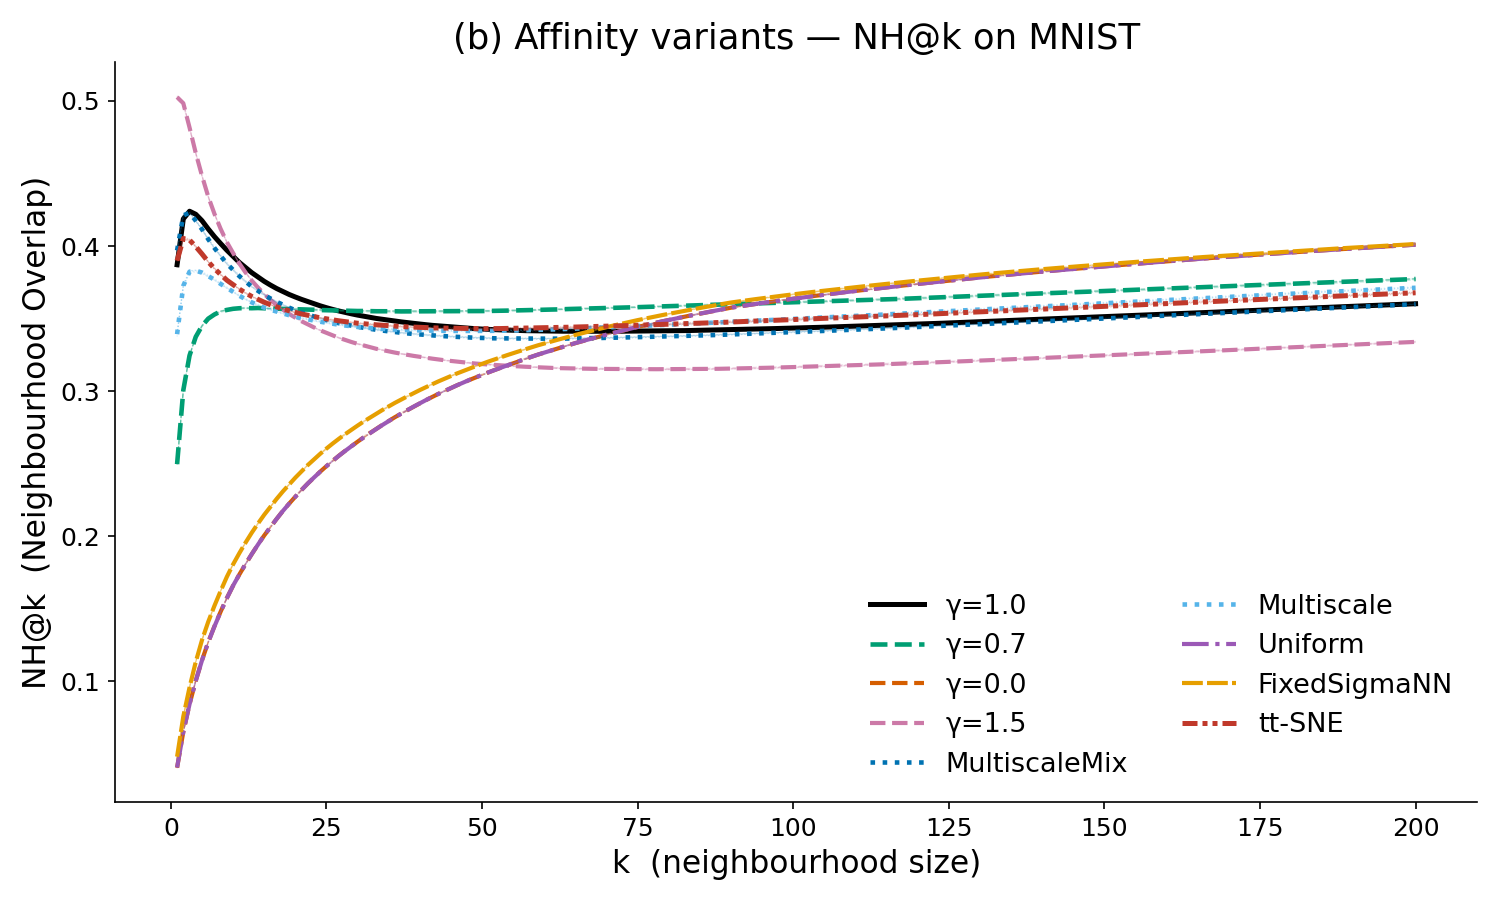
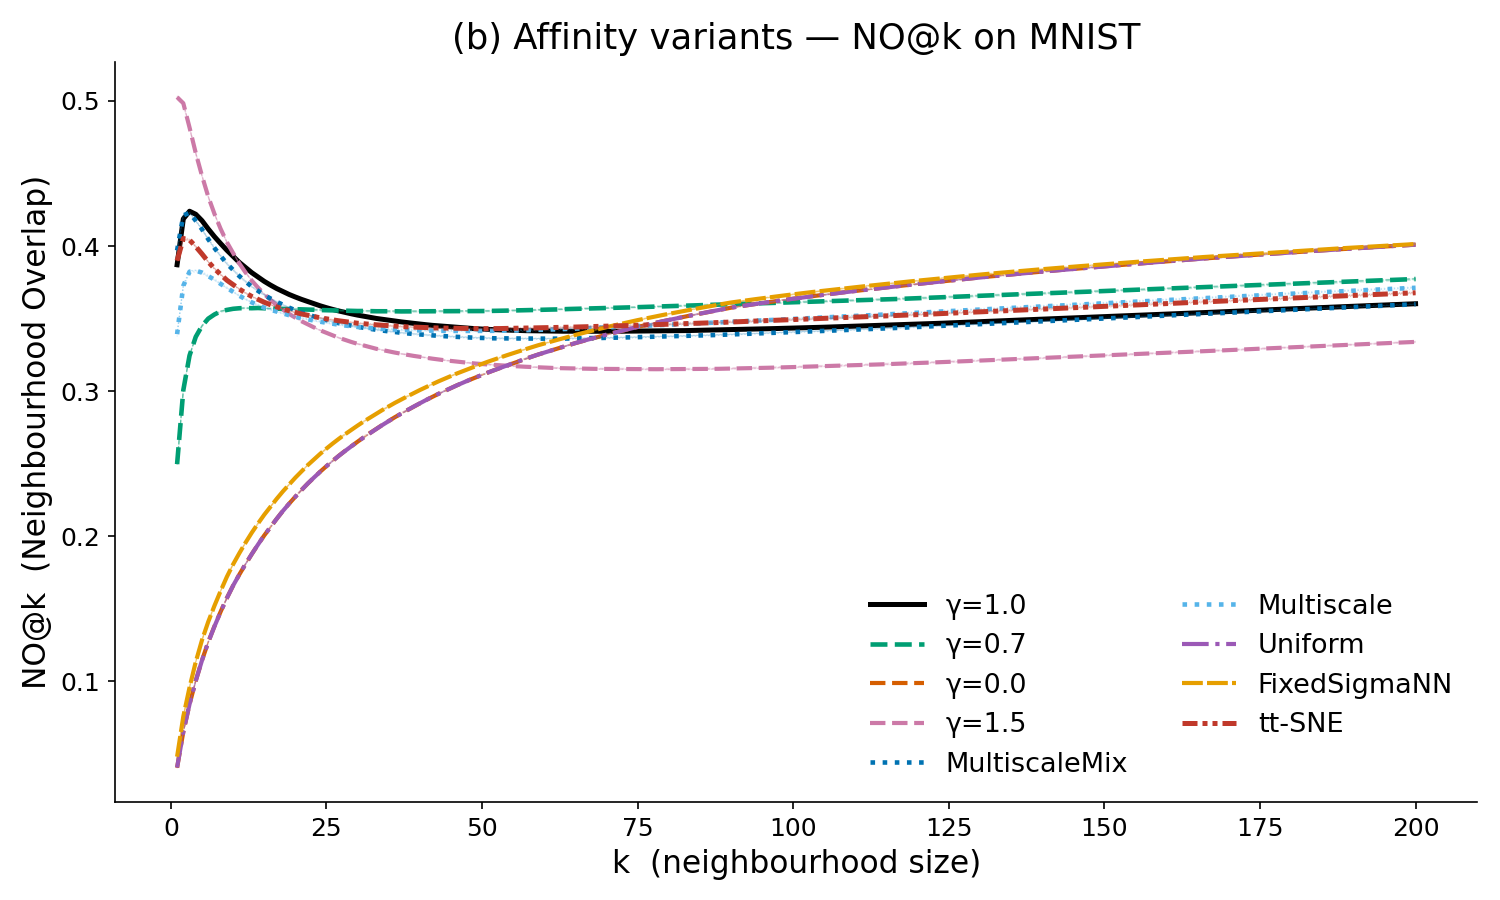
change NH to NO in affinity comparison experiment

diff --git a/experiments/compare_affinity_variants.py b/experiments/compare_affinity_variants.py
@@ -2,9 +2,9 @@
 compare_affinity_variants.py
 
 Compare 8 affinity configurations for t-SNE using
-Neighborhood Overlap @ k (NH@k) as the quality metric.
+Neighborhood Overlap @ k (NO@k) as the quality metric.
 
-NH@k measures how well the local HD structure is preserved in the embedding:
+NO@k measures how well the local HD structure is preserved in the embedding:
 for each point, it counts the fraction of its k HD neighbors that also appear
 among its k LD neighbors, then averages over all points.
 
@@ -291,11 +291,11 @@ def knn_indices(X, k, n_jobs=-1):
 
 def nh_curve(hd_nbrs, ld_nbrs, k_max):
     """
-    Compute NH@k for every k from 1 to k_max given pre-built index arrays.
+    Compute NO@k for every k from 1 to k_max given pre-built index arrays.
 
     Uses the same set-intersection approach as exp4 in the main script.
     hd_nbrs, ld_nbrs : (n, k_max) int arrays
-    Returns           : (k_max,) float array, result[k-1] = mean NH@k
+    Returns           : (k_max,) float array, result[k-1] = mean NO@k
     """
     n = len(hd_nbrs)
     return np.array([
@@ -345,9 +345,9 @@ def plot_nh_curves(df, out_dir, k_max=None, dataset="mnist"):
         ax.plot(k_vals, mn.values, color=color, lw=lw, ls=ls, label=method)
 
     ax.set_xlabel("k  (neighbourhood size)")
-    ax.set_ylabel("NH@k  (Neighbourhood Overlap)")
+    ax.set_ylabel("NO@k  (Neighbourhood Overlap)")
     _prefix = "(b) " if dataset == "mnist" else ""
-    ax.set_title(f"{_prefix}Affinity variants — NH@k on {dataset.upper()}")
+    ax.set_title(f"{_prefix}Affinity variants — NO@k on {dataset.upper()}")
     ax.legend(frameon=False, ncol=2, loc="lower right")
     ax.spines["top"].set_visible(False)
     ax.spines["right"].set_visible(False)
@@ -365,7 +365,7 @@ def plot_nh_curves(df, out_dir, k_max=None, dataset="mnist"):
 
 def parse_args():
     p = argparse.ArgumentParser(
-        description="Compare affinity variants via NH@k",
+        description="Compare affinity variants via NO@k",
         formatter_class=argparse.ArgumentDefaultsHelpFormatter,
     )
     # Dataset
@@ -396,7 +396,7 @@ def parse_args():
                    help="Degrees of freedom (intrinsic dim M') for the tt-SNE "
                         "Student-t HD kernel. 'auto' estimates it from the data.")
     p.add_argument("--k_max",            type=int,   default=200,
-                   help="Compute NH@k for k = 1 … k_max")
+                   help="Compute NO@k for k = 1 … k_max")
     p.add_argument("--n_runs",           type=int,   default=1,
                    help="Number of random seeds")
     p.add_argument("--random_state",     type=int,   default=42)
@@ -428,7 +428,7 @@ def main():
     # ── Load data ─────────────────────────────────────────────────────────────
     X_pca, y = load_dataset(args)
     print(f"  X_pca: {X_pca.shape}")
-    X_eval = X_pca   # evaluate NH@k in PCA space (the actual t-SNE input)
+    X_eval = X_pca   # evaluate NO@k in PCA space (the actual t-SNE input)
 
     # ── Seeds ─────────────────────────────────────────────────────────────────
     rng    = np.random.default_rng(args.random_state)
@@ -495,7 +495,7 @@ def main():
                     ee=args.ee,
                 )
 
-                print("NH@k ...", end=" ", flush=True)
+                print("NO@k ...", end=" ", flush=True)
                 ld_nbrs = knn_indices(np.asarray(Y), k=args.k_max, n_jobs=args.n_jobs)
                 curve   = nh_curve(hd_nbrs, ld_nbrs, args.k_max)
 
@@ -520,7 +520,7 @@ def main():
     # ── Summary + figure ──────────────────────────────────────────────────────
     df = pd.read_csv(csv_path)
 
-    print("\n=== Mean NH@k per method at selected k values ===")
+    print("\n=== Mean NO@k per method at selected k values ===")
     summary = (df[df["k"].isin([10, 30, 50, 100, 200])]
                  .groupby(["method", "k"])["nh_score"]
                  .mean()
